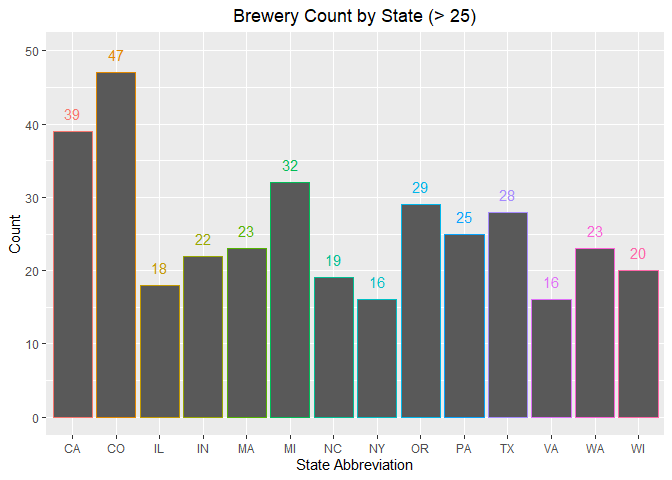
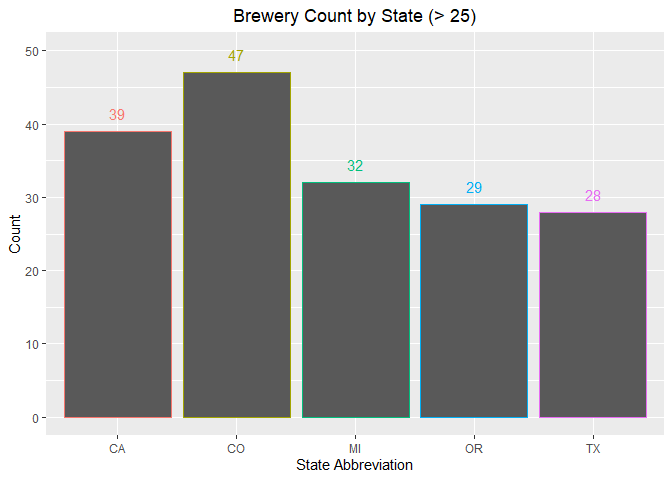
add Style to missing values table

diff --git a/src/exploratory_data_analysis/chance/Exploratory_Data_Analysis.md b/src/exploratory_data_analysis/chance/Exploratory_Data_Analysis.md
@@ -31,6 +31,11 @@ Chance Robinson
           - [Summary Statistics](#summary-statistics)
       - [ABV vs IBU](#abv-vs-ibu)
           - [Scatterplot](#scatterplot)
+          - [Pearson’s Correlation](#pearsons-correlation)
+          - [Correlation Test](#correlation-test)
+      - [KNN](#knn)
+      - [Headmap of US Craft Beers by
+        State](#headmap-of-us-craft-beers-by-state)
 
 # Exploratory Data Analysis
 
@@ -40,14 +45,14 @@ Chance Robinson
 library(tidyverse)
 ```
 
-    ## -- Attaching packages ----------------------------------------------------------------------------------------- tidyverse 1.2.1 --
+    ## -- Attaching packages ----------------------------------------------------------------------------------------------------------------- tidyverse 1.2.1 --
 
     ## v ggplot2 3.2.0     v purrr   0.3.2
     ## v tibble  2.1.3     v dplyr   0.8.3
     ## v tidyr   0.8.3     v stringr 1.4.0
     ## v readr   1.3.1     v forcats 0.4.0
 
-    ## -- Conflicts -------------------------------------------------------------------------------------------- tidyverse_conflicts() --
+    ## -- Conflicts -------------------------------------------------------------------------------------------------------------------- tidyverse_conflicts() --
     ## x dplyr::filter() masks stats::filter()
     ## x dplyr::lag()    masks stats::lag()
 
@@ -213,61 +218,16 @@ df_state_lookup = data.frame(state.abb, state.name, state.region, stringsAsFacto
 
 # add the District of Columbia as a lookup value
 df_state_lookup <- rbind(df_state_lookup, 'DC' = c("DC", "Washington D.C.", "South"))
-df_state_lookup
+head(df_state_lookup)
 ```
 
-    ##    state.abb      state.name  state.region
-    ## 1         AL         Alabama         South
-    ## 2         AK          Alaska          West
-    ## 3         AZ         Arizona          West
-    ## 4         AR        Arkansas         South
-    ## 5         CA      California          West
-    ## 6         CO        Colorado          West
-    ## 7         CT     Connecticut     Northeast
-    ## 8         DE        Delaware         South
-    ## 9         FL         Florida         South
-    ## 10        GA         Georgia         South
-    ## 11        HI          Hawaii          West
-    ## 12        ID           Idaho          West
-    ## 13        IL        Illinois North Central
-    ## 14        IN         Indiana North Central
-    ## 15        IA            Iowa North Central
-    ## 16        KS          Kansas North Central
-    ## 17        KY        Kentucky         South
-    ## 18        LA       Louisiana         South
-    ## 19        ME           Maine     Northeast
-    ## 20        MD        Maryland         South
-    ## 21        MA   Massachusetts     Northeast
-    ## 22        MI        Michigan North Central
-    ## 23        MN       Minnesota North Central
-    ## 24        MS     Mississippi         South
-    ## 25        MO        Missouri North Central
-    ## 26        MT         Montana          West
-    ## 27        NE        Nebraska North Central
-    ## 28        NV          Nevada          West
-    ## 29        NH   New Hampshire     Northeast
-    ## 30        NJ      New Jersey     Northeast
-    ## 31        NM      New Mexico          West
-    ## 32        NY        New York     Northeast
-    ## 33        NC  North Carolina         South
-    ## 34        ND    North Dakota North Central
-    ## 35        OH            Ohio North Central
-    ## 36        OK        Oklahoma         South
-    ## 37        OR          Oregon          West
-    ## 38        PA    Pennsylvania     Northeast
-    ## 39        RI    Rhode Island     Northeast
-    ## 40        SC  South Carolina         South
-    ## 41        SD    South Dakota North Central
-    ## 42        TN       Tennessee         South
-    ## 43        TX           Texas         South
-    ## 44        UT            Utah          West
-    ## 45        VT         Vermont     Northeast
-    ## 46        VA        Virginia         South
-    ## 47        WA      Washington          West
-    ## 48        WV   West Virginia         South
-    ## 49        WI       Wisconsin North Central
-    ## 50        WY         Wyoming          West
-    ## 51        DC Washington D.C.         South
+    ##   state.abb state.name state.region
+    ## 1        AL    Alabama        South
+    ## 2        AK     Alaska         West
+    ## 3        AZ    Arizona         West
+    ## 4        AR   Arkansas        South
+    ## 5        CA California         West
+    ## 6        CO   Colorado         West
 
 ## Brewery Count by State
 
@@ -283,19 +243,32 @@ df_state_lookup
 
 ``` r
 df_breweries_state <- merge(df_breweries, df_state_lookup, by.x = "brewery.state.abb", by.y = "state.abb", all.x = TRUE)
-
 # df_breweries_state
 
 df_breweries_count_by_state <- df_breweries_state %>%
-  count(state.name, sort = TRUE, name = "count")
+  count(state.name, sort = TRUE)
 
+head(df_breweries_count_by_state)
+```
+
+    ## # A tibble: 6 x 2
+    ##   state.name       n
+    ##   <chr>        <int>
+    ## 1 Colorado        47
+    ## 2 California      39
+    ## 3 Michigan        32
+    ## 4 Oregon          29
+    ## 5 Texas           28
+    ## 6 Pennsylvania    25
+
+``` r
 # kable(df_breweries_count_by_state) %>%
 #   kable_styling(bootstrap_options = c("striped", "hover", "condensed", "responsive"))
 
 
 df_breweries_state %>%
   group_by(brewery.state.abb) %>%
-  filter(n() > 15) %>%
+  filter(n() > 25) %>%
   ggplot(aes(x = brewery.state.abb, color=brewery.state.abb)) + 
   geom_bar() +
   geom_text(stat='count', aes(label=..count..), vjust=-1) +
@@ -398,7 +371,9 @@ tail(df_merged)
 
 <!-- end list -->
 
-  - The ABV and IBU columns have missing values
+  - The ABV and IBU columns have NA values
+
+  - The Style column as blank values
 
   - 62 for ABV
 
@@ -433,6 +408,17 @@ df_na_ibu <- df_merged %>%
 
 na_ibu_count <- dim(df_na_ibu)[1]
 
+
+allmisscols <- sapply(df_merged, function(x) any(x == '' ))
+
+# allmisscols
+
+df_na_style <- df_merged %>%
+  filter(beer.style=='')
+
+na_style_count <- dim(df_na_style)[1]
+
+
 total_count <- dim(df_merged)[1]
 ```
 
@@ -440,6 +426,7 @@ total_count <- dim(df_merged)[1]
 | ----------- | ----- | ---------- |
 | 1\. ABV     | 62    | 2.5726141  |
 | 2\. IBU     | 1005  | 41.7012448 |
+| 3\. Style   | 5     | 0.2074689  |
 
 ## Barplot of median values
 
@@ -794,12 +781,14 @@ df_merged %>%
 ![](Exploratory_Data_Analysis_files/figure-gfm/merged-median-abv-ibu-scatterplot-1.png)<!-- -->
 
 ``` r
-df_x <- df_merged %>%
+df_abv_ibu_cor <- df_merged %>%
   select(beer.abv, beer.ibu)
+```
 
-r <- cor(as.matrix(df_x), use="complete.obs")
-t <- cor.test(df_x$beer.abv, df_x$beer.ibu, use="complete.obs")
+### Pearson’s Correlation
 
+``` r
+r <- cor(as.matrix(df_abv_ibu_cor), use="complete.obs")
 r
 ```
 
@@ -807,14 +796,17 @@ r
     ## beer.abv 1.0000000 0.6706215
     ## beer.ibu 0.6706215 1.0000000
 
+### Correlation Test
+
 ``` r
+t <- cor.test(df_abv_ibu_cor$beer.abv, df_abv_ibu_cor$beer.ibu, use="complete.obs")
 t
 ```
 
     ## 
     ##  Pearson's product-moment correlation
     ## 
-    ## data:  df_x$beer.abv and df_x$beer.ibu
+    ## data:  df_abv_ibu_cor$beer.abv and df_abv_ibu_cor$beer.ibu
     ## t = 33.863, df = 1403, p-value < 2.2e-16
     ## alternative hypothesis: true correlation is not equal to 0
     ## 95 percent confidence interval:
@@ -825,4 +817,117 @@ t
 
 ``` r
 # t$estimate
+```
+
+## KNN
+
+7.  Budweiser would also like to investigate the difference with respect
+    to IBU and ABV between IPAs (India Pale Ales) and other types of Ale
+    (any beer with “Ale” in its name other than IPA). You decide to use
+    KNN clustering to investigate this relationship. Provide statistical
+    evidence one way or the other. You can of course assume your
+    audience is comfortable with percentages … KNN is very easy to
+    understand.
+
+<!-- end list -->
+
+  - …
+
+## Headmap of US Craft Beers by State
+
+9.  Knock their socks off\! Find one other useful inference from the
+    data that you feel Budweiser may be able to find value in. You must
+    convince them why it is important and back up your conviction with
+    appropriate statistical evidence.
+
+<!-- end list -->
+
+  - More craft beers are made in the West than any other region.
+    Colorado, California and Oregon for example are all in the top 5 as
+    far as having the most craft beers made in-state.
+
+<!-- end list -->
+
+``` r
+# library(ggplot2)
+library(maps)
+```
+
+    ## 
+    ## Attaching package: 'maps'
+
+    ## The following object is masked from 'package:purrr':
+    ## 
+    ##     map
+
+``` r
+# library(dplyr)
+library(mapproj)
+
+
+#count up the occurance of each state. 
+df_beer_count_by_state <- df_merged %>%
+  count(state.name, sort = TRUE)
+
+df_beer_count_by_state
+```
+
+    ## # A tibble: 51 x 2
+    ##    state.name        n
+    ##    <chr>         <int>
+    ##  1 Colorado        265
+    ##  2 California      183
+    ##  3 Michigan        162
+    ##  4 Indiana         139
+    ##  5 Texas           130
+    ##  6 Oregon          125
+    ##  7 Pennsylvania    100
+    ##  8 Illinois         91
+    ##  9 Wisconsin        87
+    ## 10 Massachusetts    82
+    ## # ... with 41 more rows
+
+``` r
+colnames(df_beer_count_by_state)[1] = "State" #change "state.name" to "State"
+colnames(df_beer_count_by_state)[2] = "Count" #change "n" to "Count"
+
+# df_abv_map_data1
+
+df_beer_count_by_state$region <- tolower(df_beer_count_by_state$State)
+df_beer_count_by_state2 <- df_beer_count_by_state[-1]
+states <- map_data("state")
+map.df <- merge(states, df_beer_count_by_state2, by="region", all.x=T)
+map.df <- map.df[order(map.df$order),]
+ggplot(map.df, aes(x=long,y=lat,group=group))+
+  geom_polygon(aes(fill=Count))+
+  geom_path()+ 
+  scale_fill_gradientn(colours=rev(heat.colors(10)),na.value="grey90")+ggtitle("US Craft Beer Count by State (Heatmap)")+
+coord_map()
+```
+
+![](Exploratory_Data_Analysis_files/figure-gfm/merged-count-beers-by-state-heatmap-1.png)<!-- -->
+
+``` r
+#count up the occurance of each state. 
+df_beer_count_by_region <- df_merged %>%
+  count(state.region, sort = TRUE) %>%
+  ggplot(aes(x = reorder(state.region, -n), y=n)) +
+  geom_bar(stat = "identity", position = "dodge") +
+  ggtitle("Bar Plot of US Craft Beers by Region") +
+  labs(x = "State", y = "Median") +
+  theme(axis.text.x = element_text(angle = 90, hjust = 1))
+
+df_beer_count_by_region
+```
+
+![](Exploratory_Data_Analysis_files/figure-gfm/merged-count-beers-by-region-barplot-1.png)<!-- -->
+
+``` r
+# df_merged %>%
+#   count(state.region, sort = TRUE) %>%
+#   ggplot(aes(x = reorder(state.region, -n), y=n)) +
+#   geom_bar(stat = "identity", position = "dodge") +
+#   # ggtitle("Brewery Count by Region") +
+#   labs(x = "Region", y = "Count") +
+#   ggtitle("US Craft Beer Count by Region")
 ```
